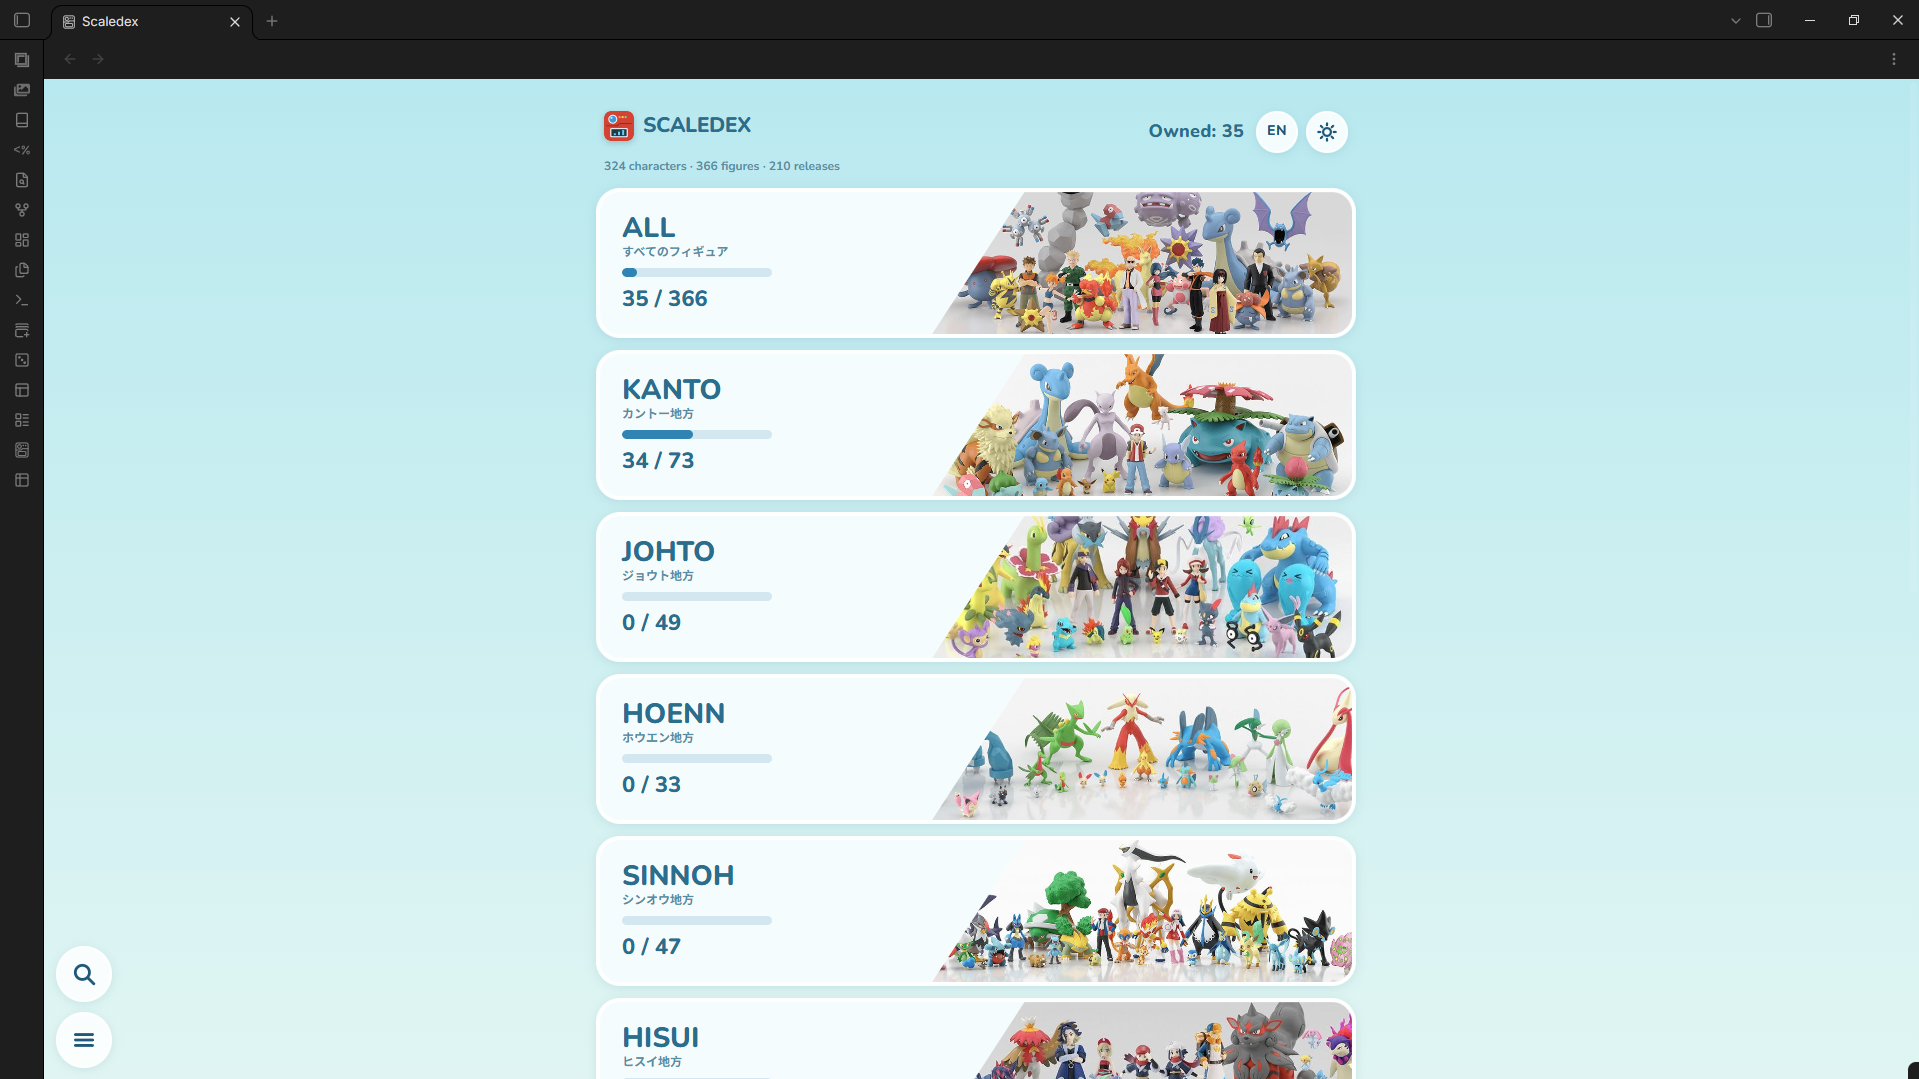
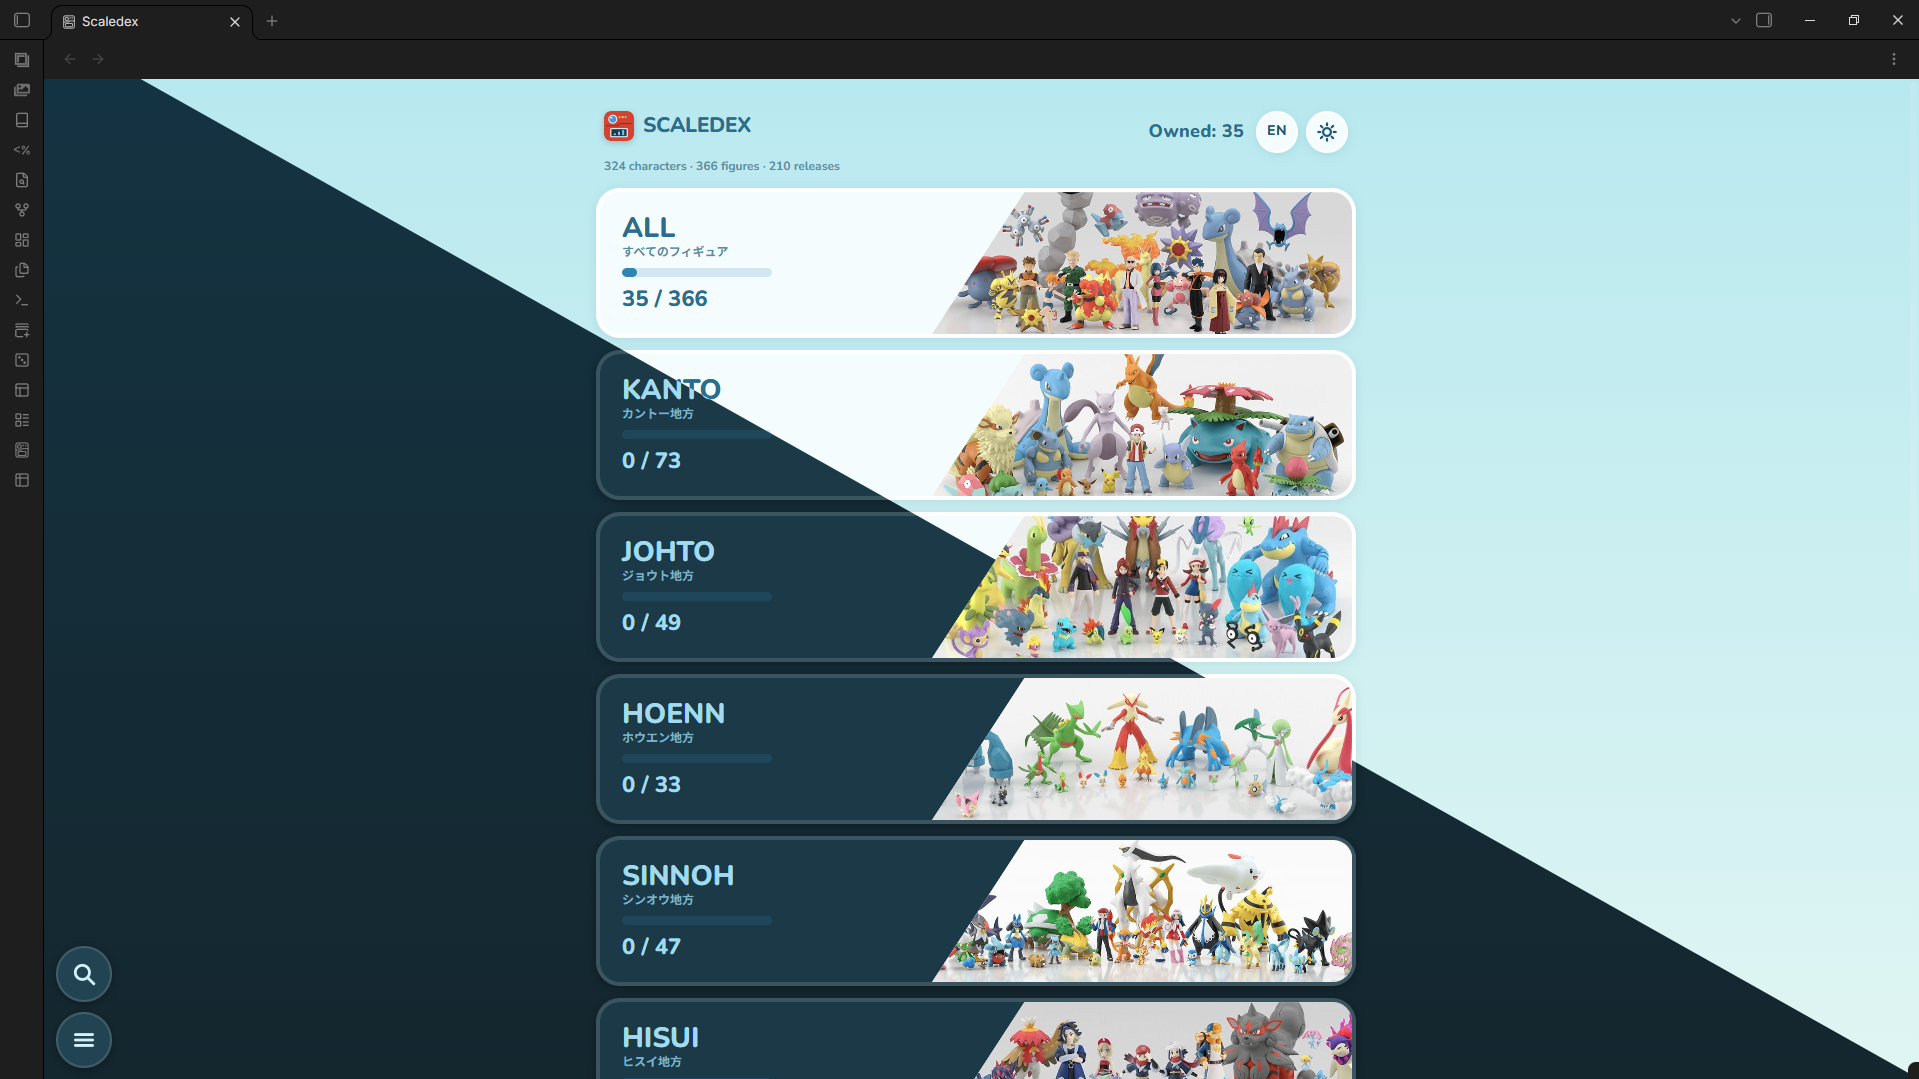
README: dark/light split screenshots

diff --git a/README.md b/README.md
@@ -2,7 +2,7 @@
 
 A Pokédex for Bandai's **Pokémon Scale World** 1/20 figures: every figure, every release with its date and price, and your own owned / wishlist collection. Works on desktop, iPhone and Android.
 
-![Scaledex home screen with region cards and collection progress](https://raw.githubusercontent.com/huyla1903/Scaledex/main/docs/home.png)
+![Scaledex home screen in dark and light themes, split by a diagonal: region cards with figure photos and collection progress](https://raw.githubusercontent.com/huyla1903/Scaledex/main/docs/home.png)
 
 Pokémon Scale World has hundreds of figures spread over candy-aisle waves, Premium Bandai sets, re-orders and re-sales. The official dex is Japanese only, runs months behind new announcements, and doesn't say what a figure cost or when it was re-released. Scaledex puts all of that in one place, styled after the Pokémon GO Pokédex.
 
@@ -10,13 +10,13 @@ Pokémon Scale World has hundreds of figures spread over candy-aisle waves, Prem
 
 One card per Scale World line (Kanto, Johto, … Paldea) shows how much of it you own. **All** lists every figure, and **Upcoming** lists figures in sets that haven't shipped yet.
 
-![Kanto grid filtered to owned figures](https://raw.githubusercontent.com/huyla1903/Scaledex/main/docs/region.png)
+![Kanto grid filtered to owned figures, in dark and light themes](https://raw.githubusercontent.com/huyla1903/Scaledex/main/docs/region.png)
 
 ## Every figure and every release
 
 A Pokémon's page shows its types, its evolution line with Megas, every figure version and every release of that figure: date, sales channel (candy aisle or Premium Bandai) and price in JPY. English and Japanese names (with romaji) and the figure's scale height are included. Trainers get their own pages with their role in the games (Gym Leader · Rock, Champion, Rival, …).
 
-![Bulbasaur's page: figure versions, scale height, owned / wishlist, evolution line and releases](https://raw.githubusercontent.com/huyla1903/Scaledex/main/docs/pokemon.png)
+![Bulbasaur's page in dark and light themes: figure versions, scale height, owned / wishlist, evolution line and releases](https://raw.githubusercontent.com/huyla1903/Scaledex/main/docs/pokemon.png)
 
 ## Find any figure
 
@@ -26,7 +26,7 @@ Search by English, Japanese or romaji name, dex number, type ("fire"), Legendary
 
 The plugin works the same on iOS and Android, in light and dark themes. If your vault syncs, your collection comes with it.
 
-![Scaledex on iPhone in light and dark themes](https://raw.githubusercontent.com/huyla1903/Scaledex/main/docs/mobile.png)
+![Scaledex on iPhone in dark and light themes: Kanto owned grid, Bulbasaur's page and the home screen](https://raw.githubusercontent.com/huyla1903/Scaledex/main/docs/mobile.png)
 
 ## Usage
 
